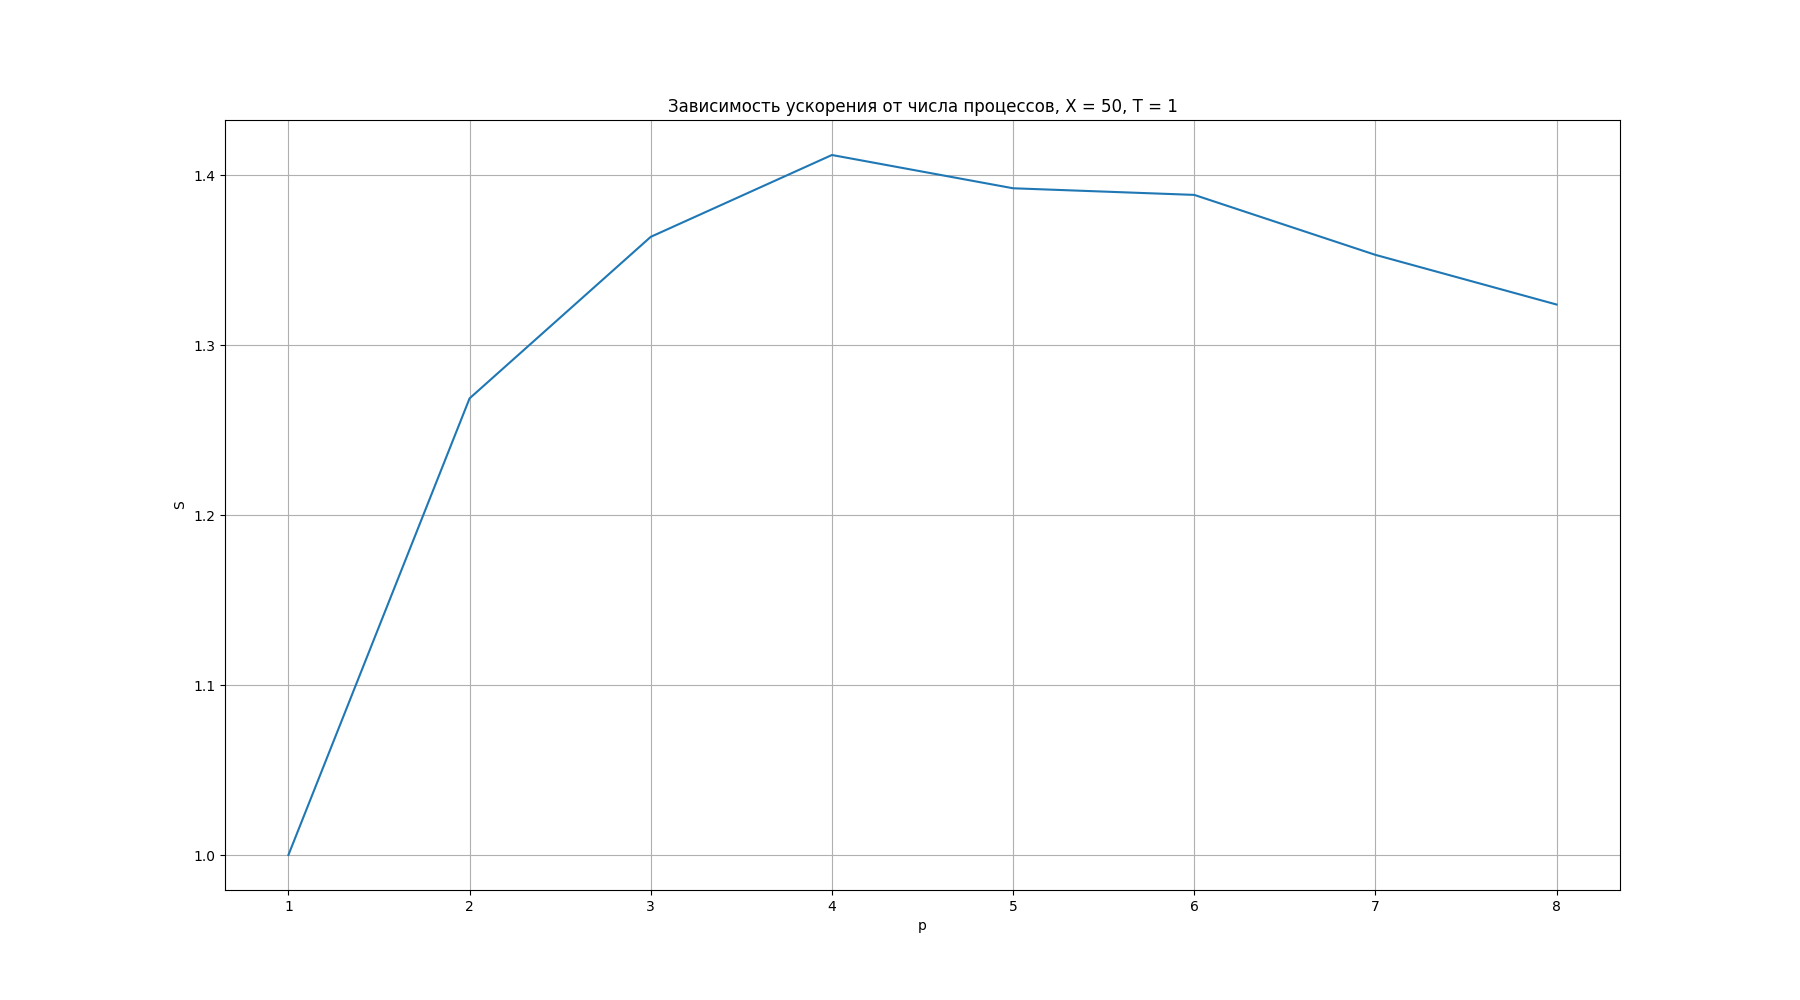
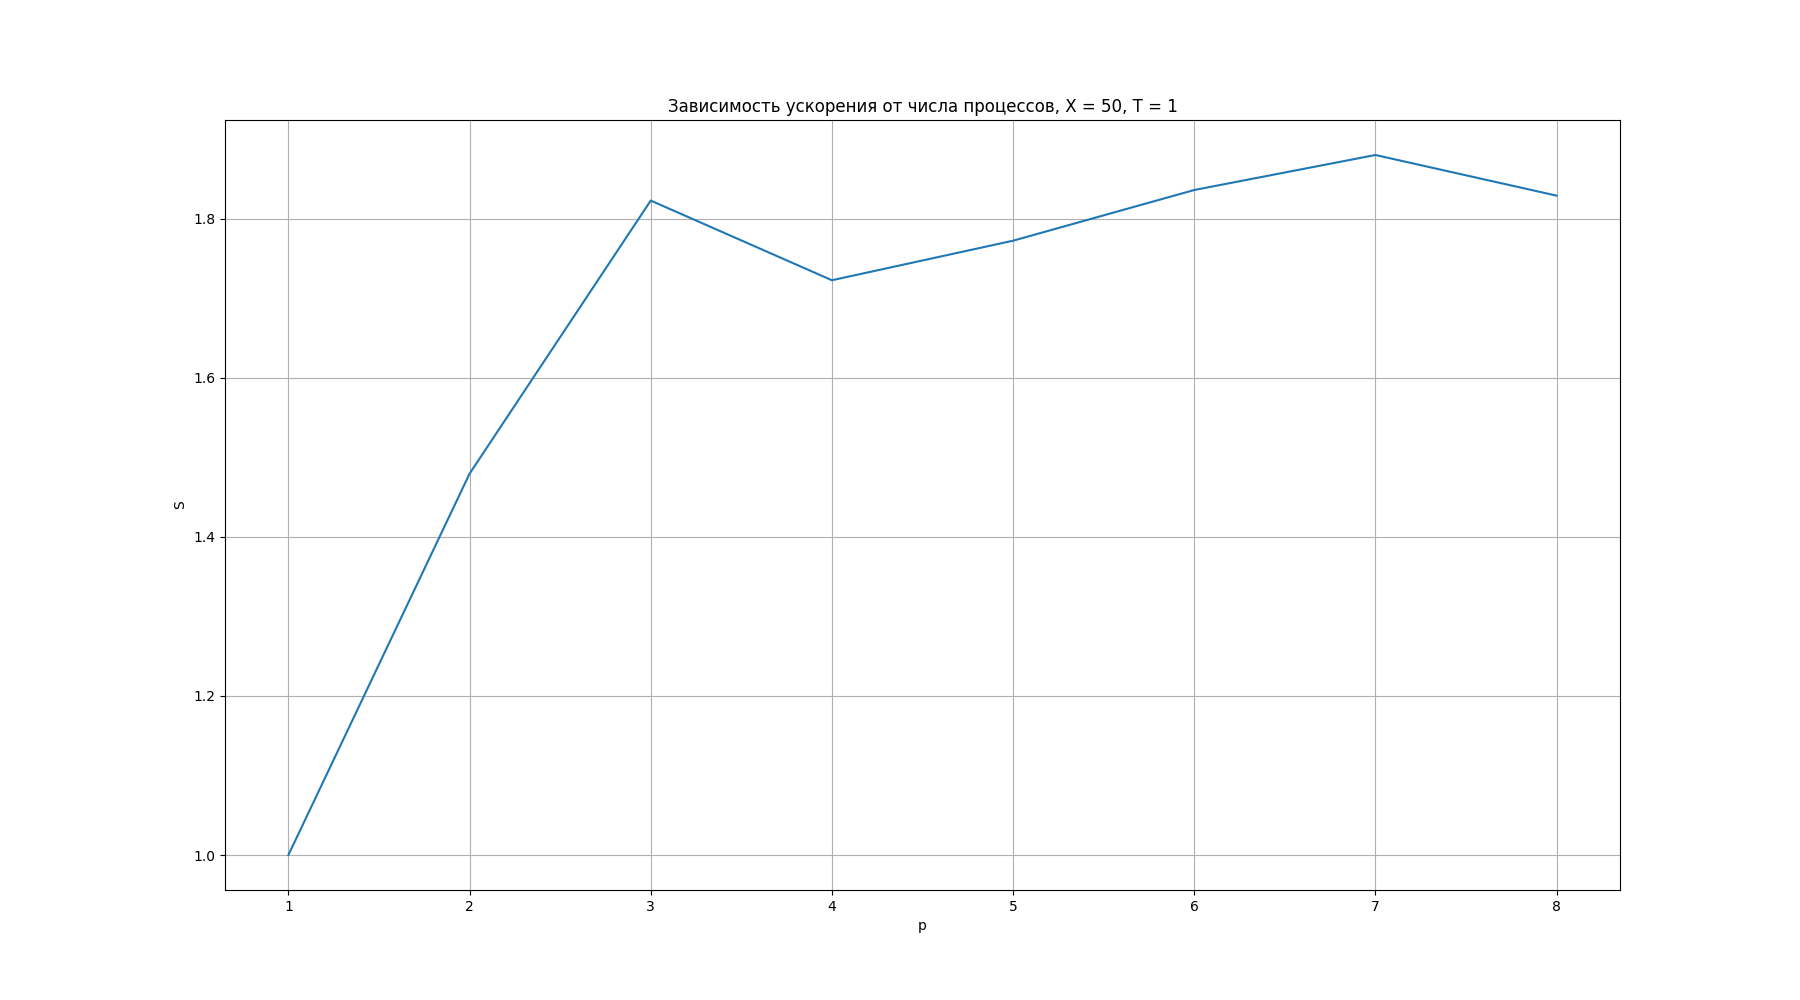
fix scripts & add readme

diff --git a/1_semester/1_lab/statistic.py b/1_semester/1_lab/statistic.py
@@ -26,9 +26,9 @@ def parse_file(vals, T_vals):
                 vals = vals + float(line[-1])
                 counter = counter + 1
             elif (line[0] == 'X:'):
-                X_param = int(line[-1])
+                X_param = float(line[-1])
             elif (line[0] == 'T:'):
-                T_param = int(line[-1])
+                T_param = float(line[-1])
 
         if (counter != 0):
             T_vals[number - 1] = vals / counter
@@ -47,5 +47,5 @@ plt.plot(p, S)
 plt.xlabel("p")
 plt.ylabel("S")
 plt.grid()
-plt.savefig('/home/stanislav/ParallelProgramming/1_lab/images/statistic_x_' + str(X_param) + '_t_' + str(T_param) + '.png')
+plt.savefig('/home/stanislav/ParallelProgramming/1_semester/1_lab/images/statistic_x_' + str(X_param) + '_t_' + str(T_param) + '.png')
 plt.show()

diff --git a/1_semester/1_lab/script.py b/1_semester/1_lab/script.py
@@ -2,7 +2,7 @@ import numpy as np
 from matplotlib import pyplot as plt
 from pathlib import Path
 
-file = Path("/home/stanislav/ParallelProgramming/1_lab/build/res.txt")
+file = Path("/home/stanislav/ParallelProgramming/1_semester/1_lab/build/res.txt")
 
 params = {
 "tau": 0,
@@ -38,5 +38,5 @@ ax.plot_surface(X, T, U, cmap='coolwarm')
 ax.set_xlabel("$x$", fontsize=20)
 ax.set_ylabel("$t$", fontsize=20)
 ax.set_zlabel("$u(x, t)$", fontsize=20)
-plt.savefig("/home/stanislav/ParallelProgramming/1_lab/images/res.png")
+plt.savefig("/home/stanislav/ParallelProgramming/1_semester/1_lab/images/res.png")
 plt.show()

diff --git a/1_semester/1_lab/src/cross.cpp b/1_semester/1_lab/src/cross.cpp
@@ -21,9 +21,9 @@ int main(int argc, char** argv) {
     CPU_SET(2 * rank, &mask);
     sched_setaffinity(getpid(), sizeof(cpu_set_t), &mask);
 
-    double start_wtime = MPI::Wtime();
-
     Worker result(rank, commsize);
+    
+    double start_wtime = MPI::Wtime();
     
     result.FillInitialConditions();
     result.CalculateFirstLineByRectangleMethod();

diff --git a/1_semester/1_lab/README.md b/1_semester/1_lab/README.md
@@ -1,0 +1,33 @@
+# Lab work 1
+### Task
+
+Solve the transfer equation
+
+$$\begin{equation*} 
+    \begin{cases}
+        \frac{\partial u(t, x)}{\partial t} + a \frac{\partial u(t, x)}{\partial x} = f(t, x),~ 0 \leq t \leq T,~ 0 \leq x \leq X, \\
+        u(0, x) = \varphi(x),~ 0 \leq x \leq X, \\
+        u(t, 0) = \psi(t),~ 0 \leq t \leq T.
+    \end{cases}
+\end{equation*}$$
+
+### Implementation details
+
+$$\frac{u_{m}^{k+1} - u_m^{k-1}}{2 \tau} + a\frac{u_{m+1}^{k} - u_{m-1}^{k}}{2 h} = f_k^{k},~ k = \overline{0, K-1},~ m = \overline{0, M-1}$$
+
+### Results
+
+For instance with $X = 5000,~ T = 1,~ h = 0.05,~ \tau = 0.001$ maximum program aceleration is 4.3 times at 8 processes.
+
+<p align="center">
+    <img src = "./images/statistic_x_5000_t_1.png" width = "700" height = "450" align = "center"/>
+</p>
+
+The solution was obtained for $f = \exp{(\sin{(xt)})},~ \varphi(x) = \cos{(\pi \frac{x}{X})},~ \psi(t) = e^{-t},~ a = 1$
+
+$X = 50,~ T = 1,~ h = 0.05,~ \tau = 0.001$ 
+
+<p align="center">
+    <img src = "./images/res.png" width = "700" height = "450" align = "center"/>
+</p>
+
